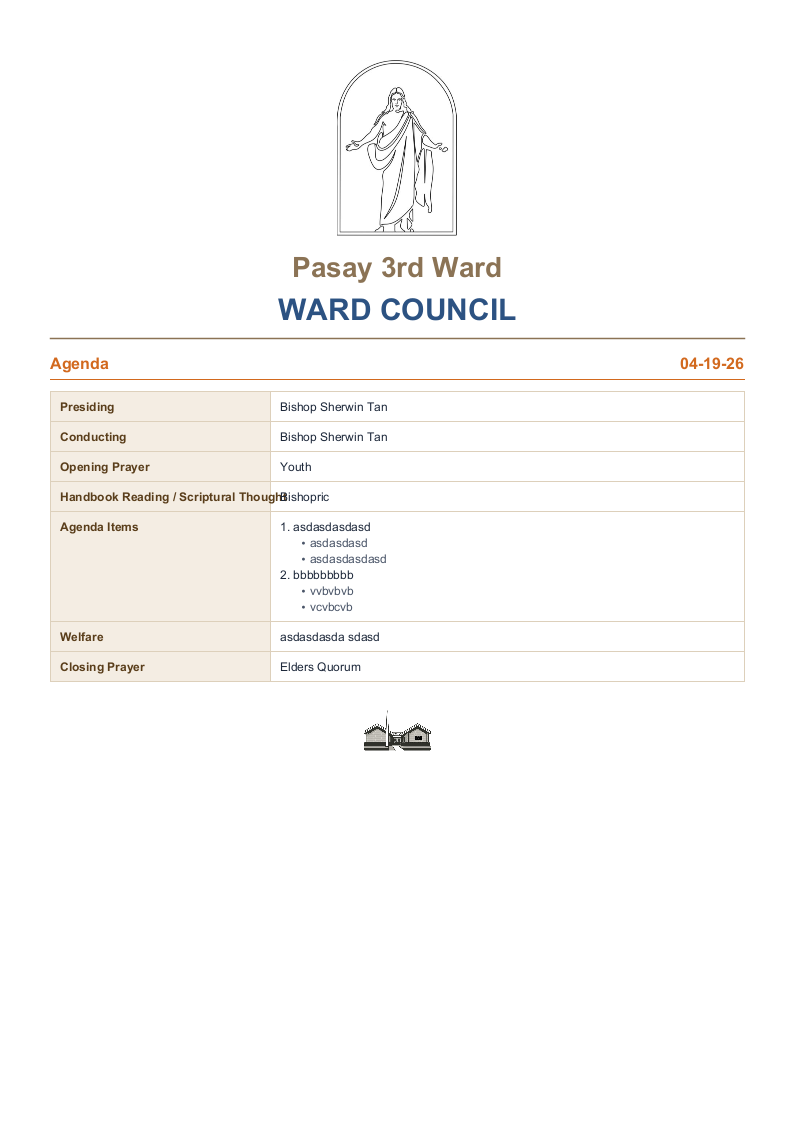
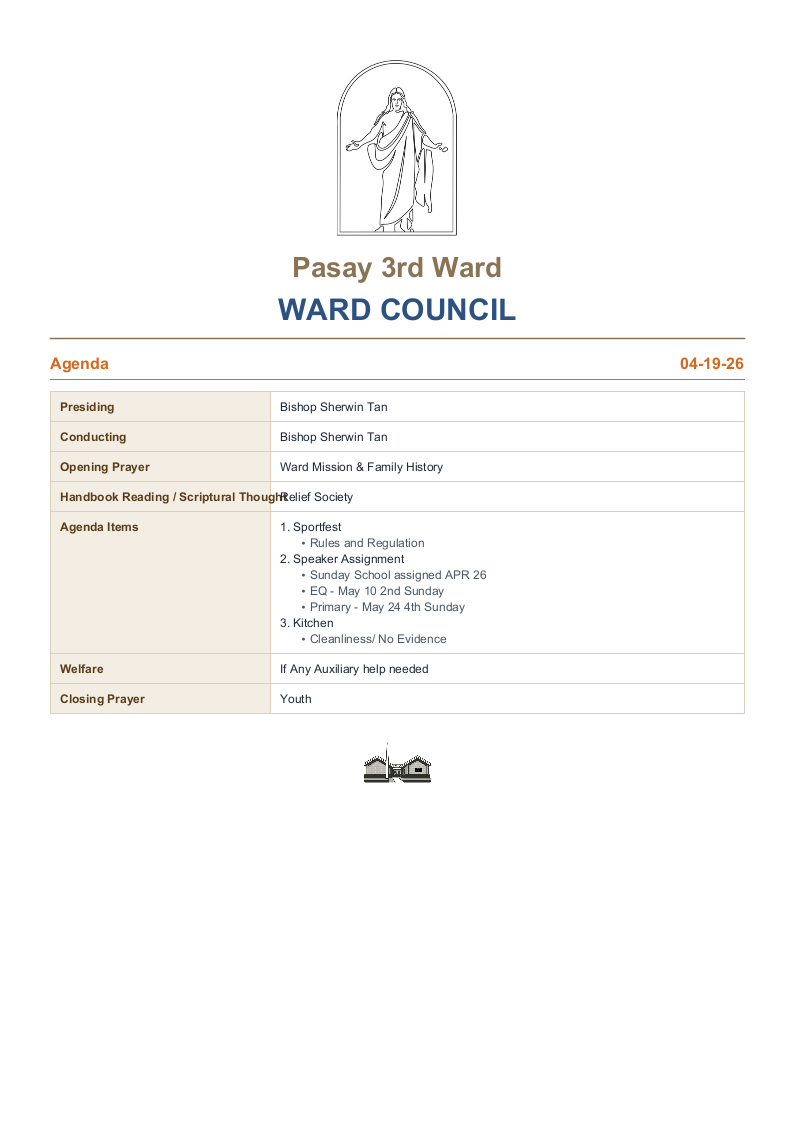
update out file name format

Changed region(s): [[0.0605, 0.4052, 0.6045, 0.7168]]

diff --git a/src/main/java/com/church/programgenerator/service/FileStorageService.java b/src/main/java/com/church/programgenerator/service/FileStorageService.java
@@ -388,10 +388,12 @@ public class FileStorageService {
     }
 
     private String generateFilename(SacramentProgram program, String extension) {
-        String dateStr = program.getDate() != null ? 
-            program.getDate().format(DateTimeFormatter.ofPattern("yyyy-MM-dd")) : 
-            LocalDate.now().format(DateTimeFormatter.ofPattern("yyyy-MM-dd"));
-        return "sacramentProgram" + dateStr + extension;
+        // Format: Sacrament-Program-APR-20-2025.docx
+        LocalDate date = program.getDate() != null ? program.getDate() : LocalDate.now();
+        String formattedDate = date.format(DateTimeFormatter.ofPattern("MMM-dd-yyyy")).toUpperCase();
+        // Replace hyphen with nothing in month, then add hyphens between words
+        // e.g., APR-20-2025
+        return "Sacrament-Program-" + formattedDate + extension;
     }
     
     // Generate filename for other meeting types

diff --git a/src/main/java/com/church/programgenerator/controller/SacramentController.java b/src/main/java/com/church/programgenerator/controller/SacramentController.java
@@ -237,11 +237,10 @@ public class SacramentController {
     }
 
     private String generateFilename(SacramentProgram program, String extension) {
-        return "sacrament" +
-                (program.getDate() != null
-                        ? program.getDate().format(DateTimeFormatter.ofPattern("yyyyMMdd"))
-                        : LocalDate.now().format(DateTimeFormatter.ofPattern("yyyyMMdd"))) +
-                extension;
+        // Format: Sacrament-Program-APR-20-2025.docx
+        LocalDate date = program.getDate() != null ? program.getDate() : LocalDate.now();
+        String formattedDate = date.format(DateTimeFormatter.ofPattern("MMM-dd-yyyy")).toUpperCase();
+        return "Sacrament-Program-" + formattedDate + extension;
     }
 
     private void processAnnouncements(SacramentProgram program, String announcements) {
